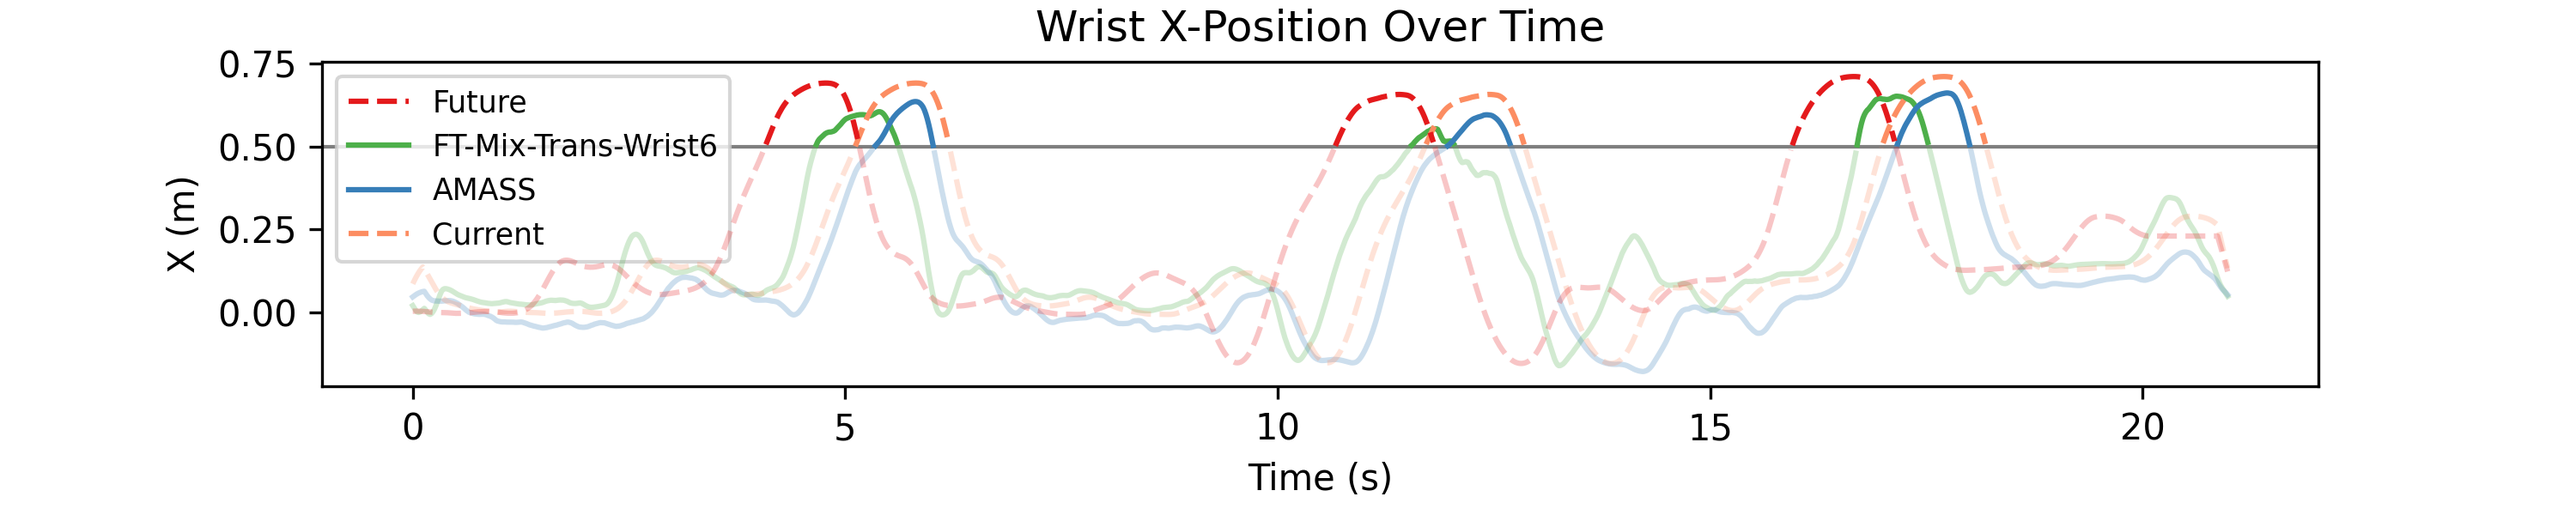
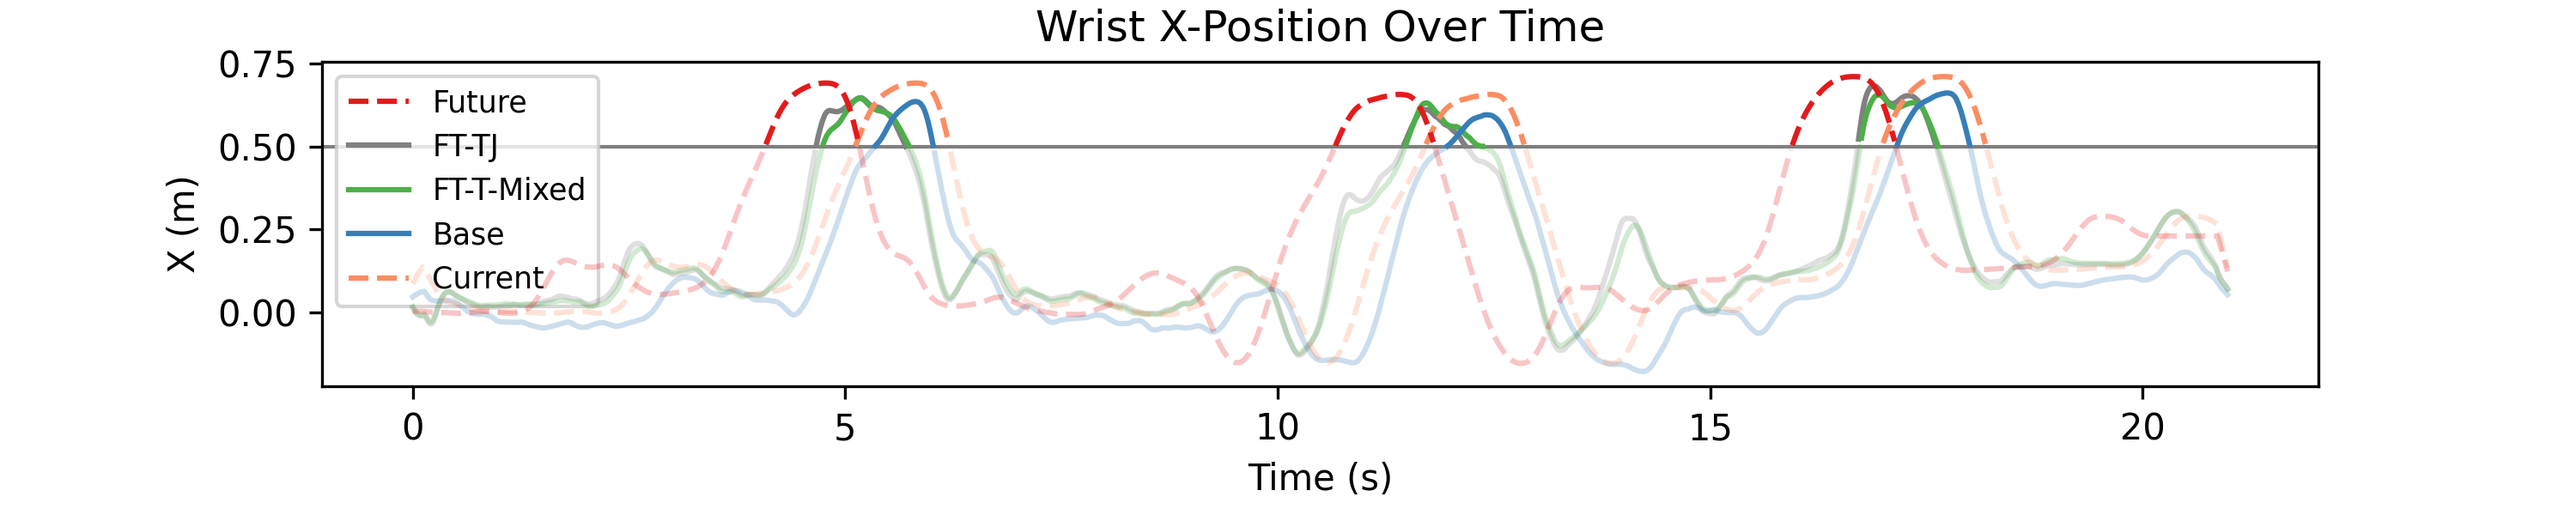
Trained new model with weighted ft

diff --git a/plot_positions.py b/plot_positions.py
@@ -81,19 +81,17 @@ def create_model(model_path):
     return model
 
 model_map = {
-    'AMASS': create_model(f'{model_folder}/pretrained_unweighted/49_amass_3d_25frames_ckpt'),
-    # TODO: Create model trained on only our data
-    # 'FT-No-Trans': create_model(f'{model_folder}/all_finetuned_unweighted_hist10_no_transitions_1e-04/49_amass_3d_25frames_ckpt'),
-    # 'FT-Mix-Trans': create_model(f'{model_folder}/all_finetuned_unweighted_hist10_mixed_transitions_1e-04/49_amass_3d_25frames_ckpt'),
-    'FT-Mix-Trans-Wrist6': create_model(f'{model_folder}/all_finetuned_wrist6_hist10_mixed_transitions_1e-04/49_amass_3d_25frames_ckpt')
+    'Base': create_model(f'{model_folder}/pretrained_unweighted/49_amass_3d_25frames_ckpt'),
+    'FT-T-Mixed': create_model(f'{model_folder}/all_finetuned_unweighted_hist10_mixed_transitions_1e-04/49_amass_3d_25frames_ckpt'),
+    'FT-TJ': create_model(f'{model_folder}/all_finetuned_wrist6ft_hist10_mixed_transitions_1e-04/49_amass_3d_25frames_ckpt')
 }
 color_map = {
     'Current': '#fc8d62',
     'Future': '#e41a1c',
-    'AMASS': '#377eb8',
+    'Base': '#377eb8',
     # TODO: Create model trained on only our data
-    # 'FT-Mix-Trans': '#4daf4a',
-    'FT-Mix-Trans-Wrist6': '#4daf4a'
+    'FT-T-Mixed': '#4daf4a',
+    'FT-TJ': 'gray'
 }
 
 
@@ -216,7 +214,7 @@ if plotting:
 
     # Add a legend
     handles, labels = plt.gca().get_legend_handles_labels()
-    unique_labels = ['Future', 'FT-Mix-Trans-Wrist6', 'AMASS', 'Current']
+    unique_labels = ['Future', 'FT-TJ', 'FT-T-Mixed', 'Base', 'Current']
     unique_handles = [handles[labels.index(label)] for label in unique_labels]
     legend_position = 'upper left'  # Position of the legend
     legend_bbox_to_anchor = (0, 1)  # Bbox coordinates of the legend
